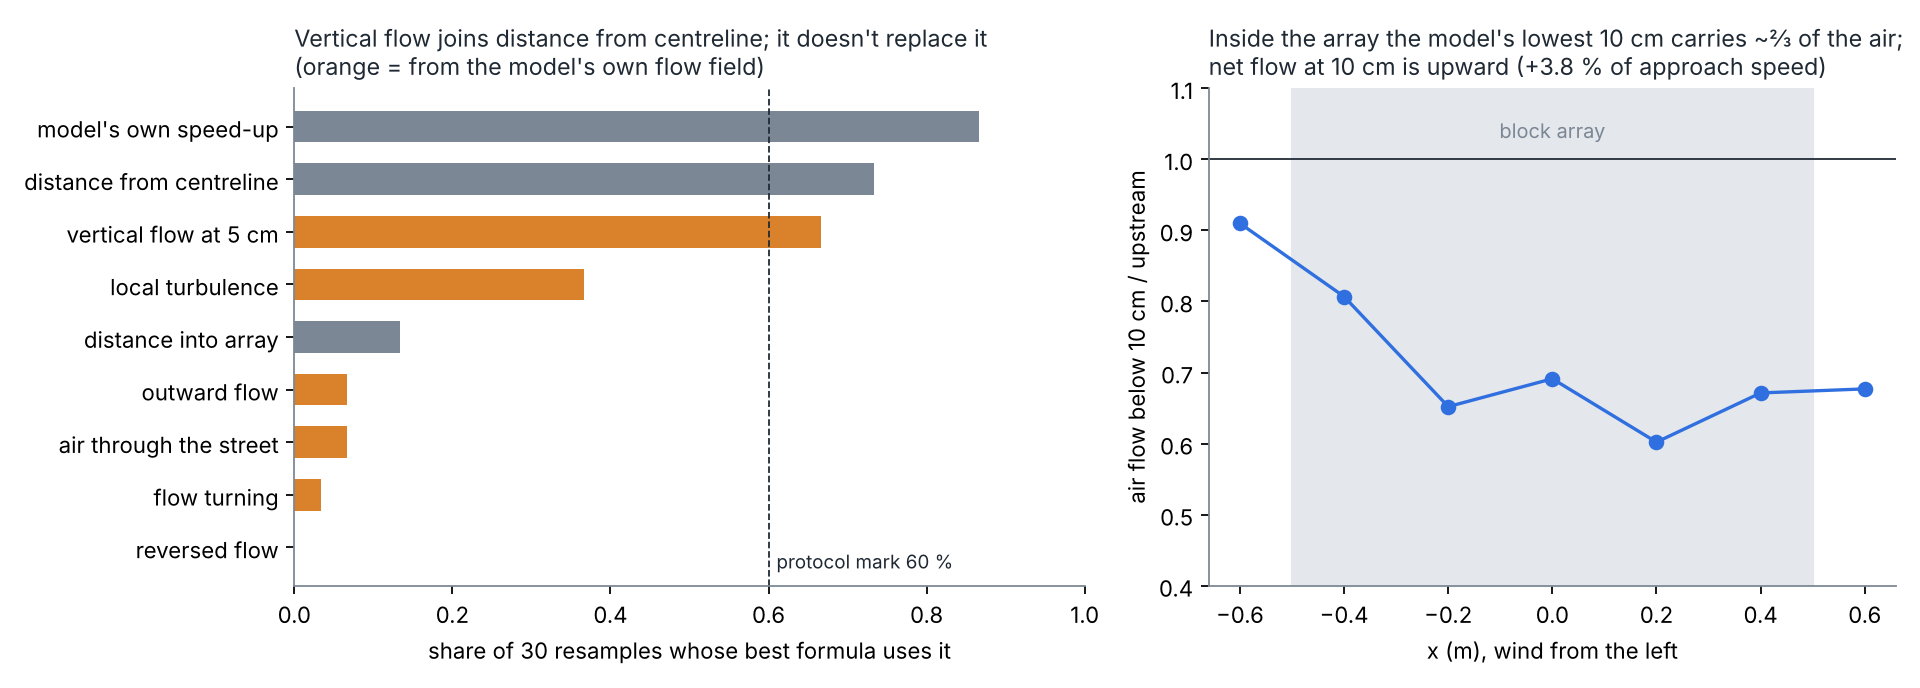
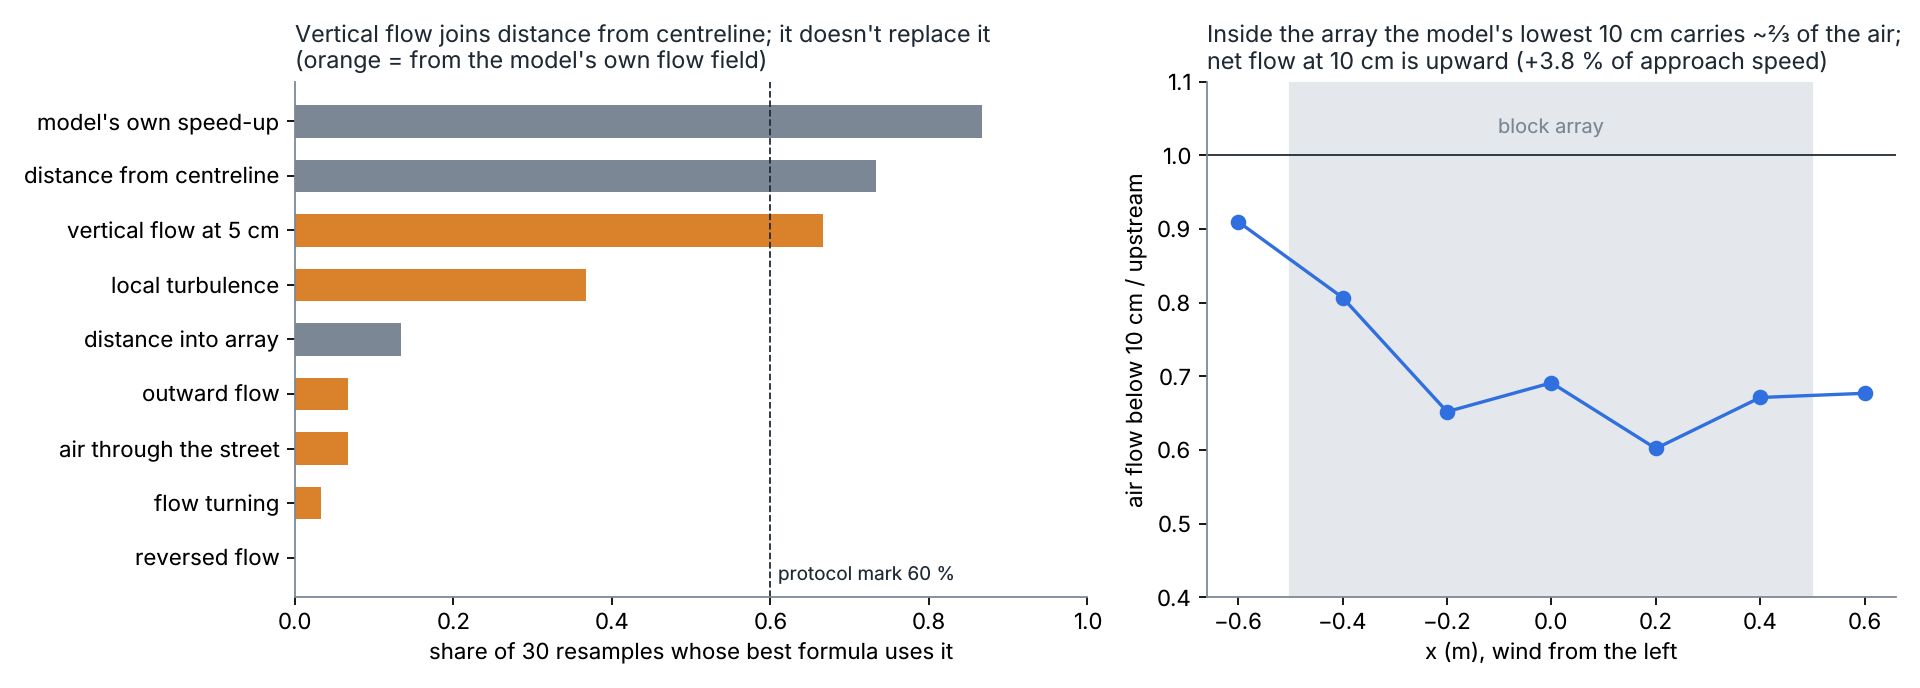
physics: protocol 9 findings, layout 1D blocks are all D tall (figure and text corrected); next run is WindSim F3 step 6
Claude-Session: https://claude.ai/code/session_01LYT5Q7xNaGW3QLnTrbotLS

diff --git a/physics/figures9.py b/physics/figures9.py
@@ -16,7 +16,7 @@ def blocks(ax):
     for cx in (-0.4, 0.0, 0.4):
         for cy in (-0.4, 0.0, 0.4):
             tall = cx == 0 and cy == 0
-            ax.add_patch(Rectangle((cx - 0.1, cy - 0.1), 0.2, 0.2, color="#52606d" if tall else "#cbd2d9", zorder=0))
+            ax.add_patch(Rectangle((cx - 0.1, cy - 0.1), 0.2, 0.2, color="#cbd2d9", zorder=0))
     ax.set_xlim(-0.55, 0.55); ax.set_ylim(-0.55, 0.55); ax.set_aspect("equal"); ax.set_xticks([]); ax.set_yticks([])
     ax.annotate("wind", xy=(-0.33, 0.52), xytext=(-0.53, 0.52), arrowprops=dict(arrowstyle="->", color=INK), va="center", color=INK)
 
@@ -34,7 +34,7 @@ for ax, (v, t) in zip(axs, panels):
 cb = fig.colorbar(sc, cax=fig.add_axes([0.875, 0.15, 0.012, 0.6])); cb.set_ticks(np.log([0.75, 0.87, 1, 1.15, 1.33]) - 0)
 cb.set_ticklabels(["model 25 % low", "13 % low", "on the level", "15 % high", "33 % high"])
 fig.suptitle(f"AIJ Case C 1D, LBM D/32: every point reads about ×{d['level_factor']:.2f} high; what's left after that, point by point "
-             "\n(dark block = the tall centre block; red = model faster than the tunnel; tunnel repeat noise ≈ 0.05)", x=0.01, ha="left", fontsize=11, color=INK)
+             "\n(grey = the nine blocks, all D tall in layout 1D; red = model faster than the tunnel; tunnel repeat noise ≈ 0.05)", x=0.01, ha="left", fontsize=11, color=INK)
 fig.savefig(F / "lateral_01_points.png", dpi=160, bbox_inches="tight")
 
 # 2: which flow words pay, and the level ledger
@@ -42,7 +42,7 @@ fig, axs = plt.subplots(1, 2, figsize=(12, 4.3), gridspec_kw={"width_ratios": [1
 ax = axs[0]; bi = d["bootstrap_by_input"]["B"]
 lab = {"lp": "model's own speed-up", "lateral": "distance from centreline", "downwash": "vertical flow at 5 cm",
        "ti_local": "local turbulence", "fetch": "distance into array", "side_flux": "outward flow", "street_flux": "air through the street",
-       "turn": "flow turning", "reverse": "reversed flow", "x_pos": "x position", "corner": "near tall corner", "cross": "cross street"}
+       "turn": "flow turning", "reverse": "reversed flow", "x_pos": "x position", "corner": "near the centre block's corners", "cross": "cross street"}
 field = {"downwash", "ti_local", "side_flux", "street_flux", "turn", "reverse"}
 keys = [k for k in lab if k in bi or k in field]; keys = sorted(keys, key=lambda k: -bi.get(k, 0))
 ax.barh(range(len(keys)), [bi.get(k, 0) for k in keys], color=[WARN if k in field else MUTE for k in keys], height=0.6)

diff --git a/physics/lateral_fields.py b/physics/lateral_fields.py
@@ -93,7 +93,7 @@ def ctx_build():
     street = lambda v: 0.1 < round(abs(v), 3) < 0.3
     sx = np.array([street(v) for v in x]); sy = np.array([street(v) for v in y])
     dxb = np.maximum(np.abs(x) - 0.1, 0); dyb = np.maximum(np.abs(y) - 0.1, 0)
-    hc = np.ones(n)                                     # 1D layout: every point has the 1 D-taller centre block
+    hc = np.ones(n)                                     # 1D layout: centre block D tall like the rest (hc constant, drops out)
     ctx.update({"lp": np.log(p["vs_pred"] / U_APP), "fetch": (x + 0.5) / D, "along": (sy & ~sx).astype(float),
                 "cross": (sx & ~sy).astype(float), "hc": hc, "corner": (np.hypot(dxb, dyb) <= 0.1 + 1e-9).astype(float),
                 "lateral": np.abs(y) / D, "x_pos": x / D})

diff --git a/physics/FINDINGS-9.md b/physics/FINDINGS-9.md
@@ -66,13 +66,14 @@ fed down into the lower layer.
   near-ground flow doesn't explain it. With FINDINGS-5 (≥ 74 % made inside the array) and D1 (flow above the array
   10–13 % fast), the open suspect is what happens at and above roof height. That is how the model's shear layer over
   the blocks sets the speed the streets see. This field stops at 10 cm, half the block height.
-- **Next run:** the same F3 setting with `--keep-fields 0.45`, so the field reaches above the tall centre block.
+- **Next run:** WindSim F3 step 6 (its protocol is in `docs/validation.md`). R0 keeps the fields to 0.45 m, which is 2.25 block heights (in layout 1D every block is D tall), and R1 runs in a wider, taller section.
   Then a ledger of momentum flux at roof height (u'w' cannot be read without covariances; `write_fields` would need
   uw, vw and uv sums added, which is a WindSim change under its own protocol).
 - The domain-blockage test (FINDINGS-5 second suspect, ≤ 22 %) stays open and is cheap to add to the same run:
   widen the section so blockage falls under 2 %.
 
 ## Limits
+- In layout 1D all nine blocks are D tall, so the `hc` input is constant and drops out. The first version of the figure labelled the centre block "tall", which was wrong.
 - One run, one layout, 120 points; the folds are spatial, and the mirror fold makes the quadrants share field
   values pairwise.
 - `ti_local` is the isotropic form, because covariances aren't stored.
